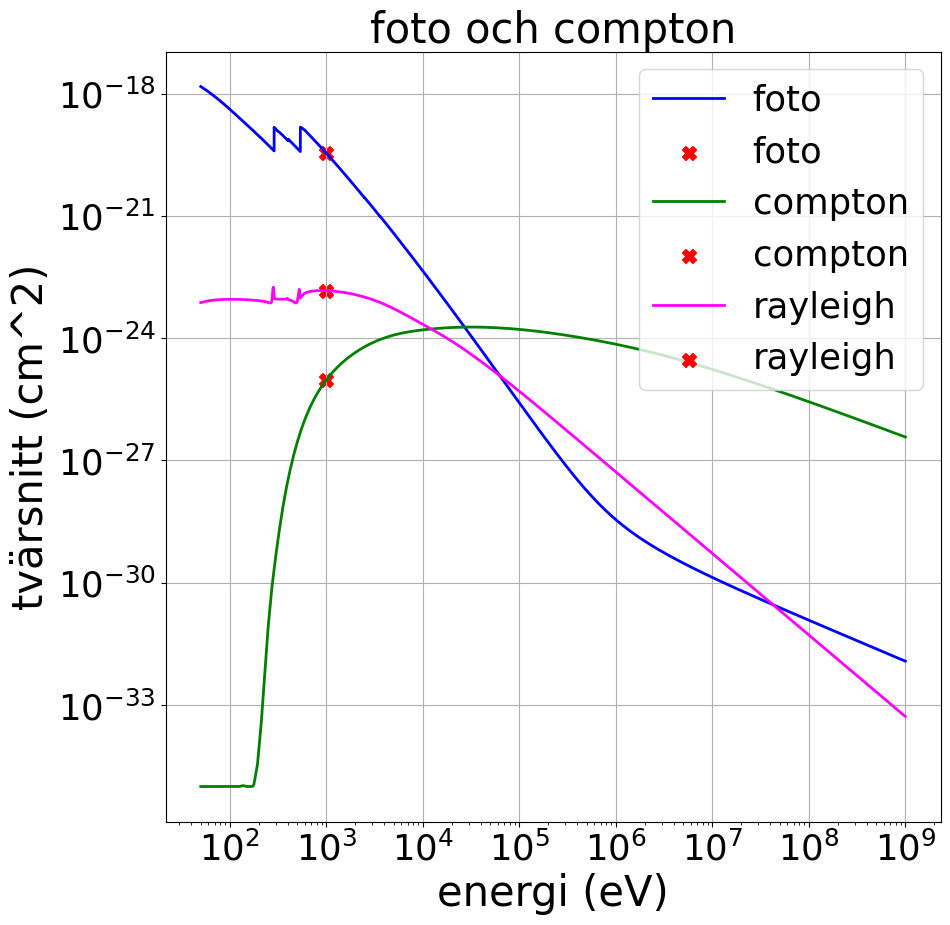
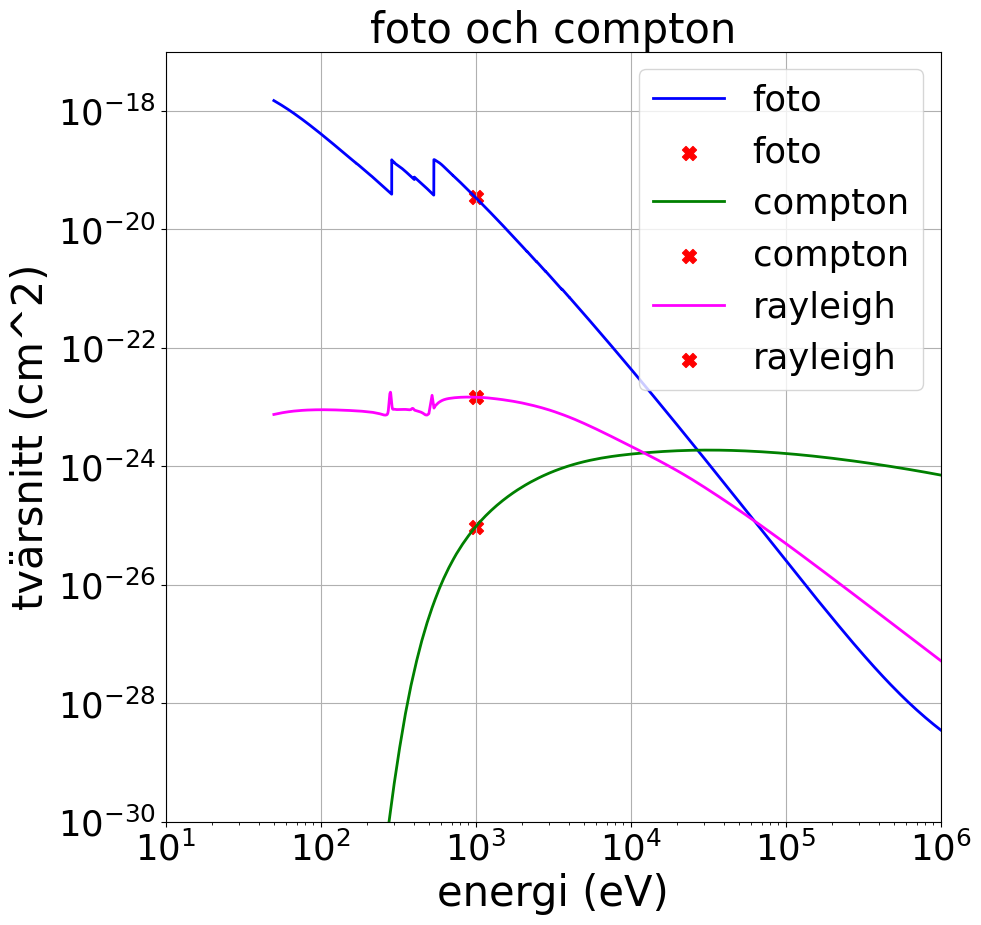
.

diff --git a/Martin/sampla_växelverkan.py b/Martin/sampla_växelverkan.py
@@ -118,8 +118,8 @@ if __name__ == "__main__":
 
     fig = plot_stuff(x_data, y_data, scatter, label_data,
                      marker, color, x_label='energi (eV)', y_label='tvärsnitt (cm^2)', title='foto och compton',
-                     fig_size=(10, 10), symbol_size=100, font_size=30, alpha=1, line_width=2, x_lim=(0, 0),
-                     y_lim=(0, 0),
+                     fig_size=(10, 10), symbol_size=100, font_size=30, alpha=1, line_width=2, x_lim=(10, 10**6),
+                     y_lim=(10**(-30), 10**(-17)),
                      grid=True, x_scale='log', y_scale='log')
 
     fig.savefig('tvärsnitt', bbox_inches='tight')
